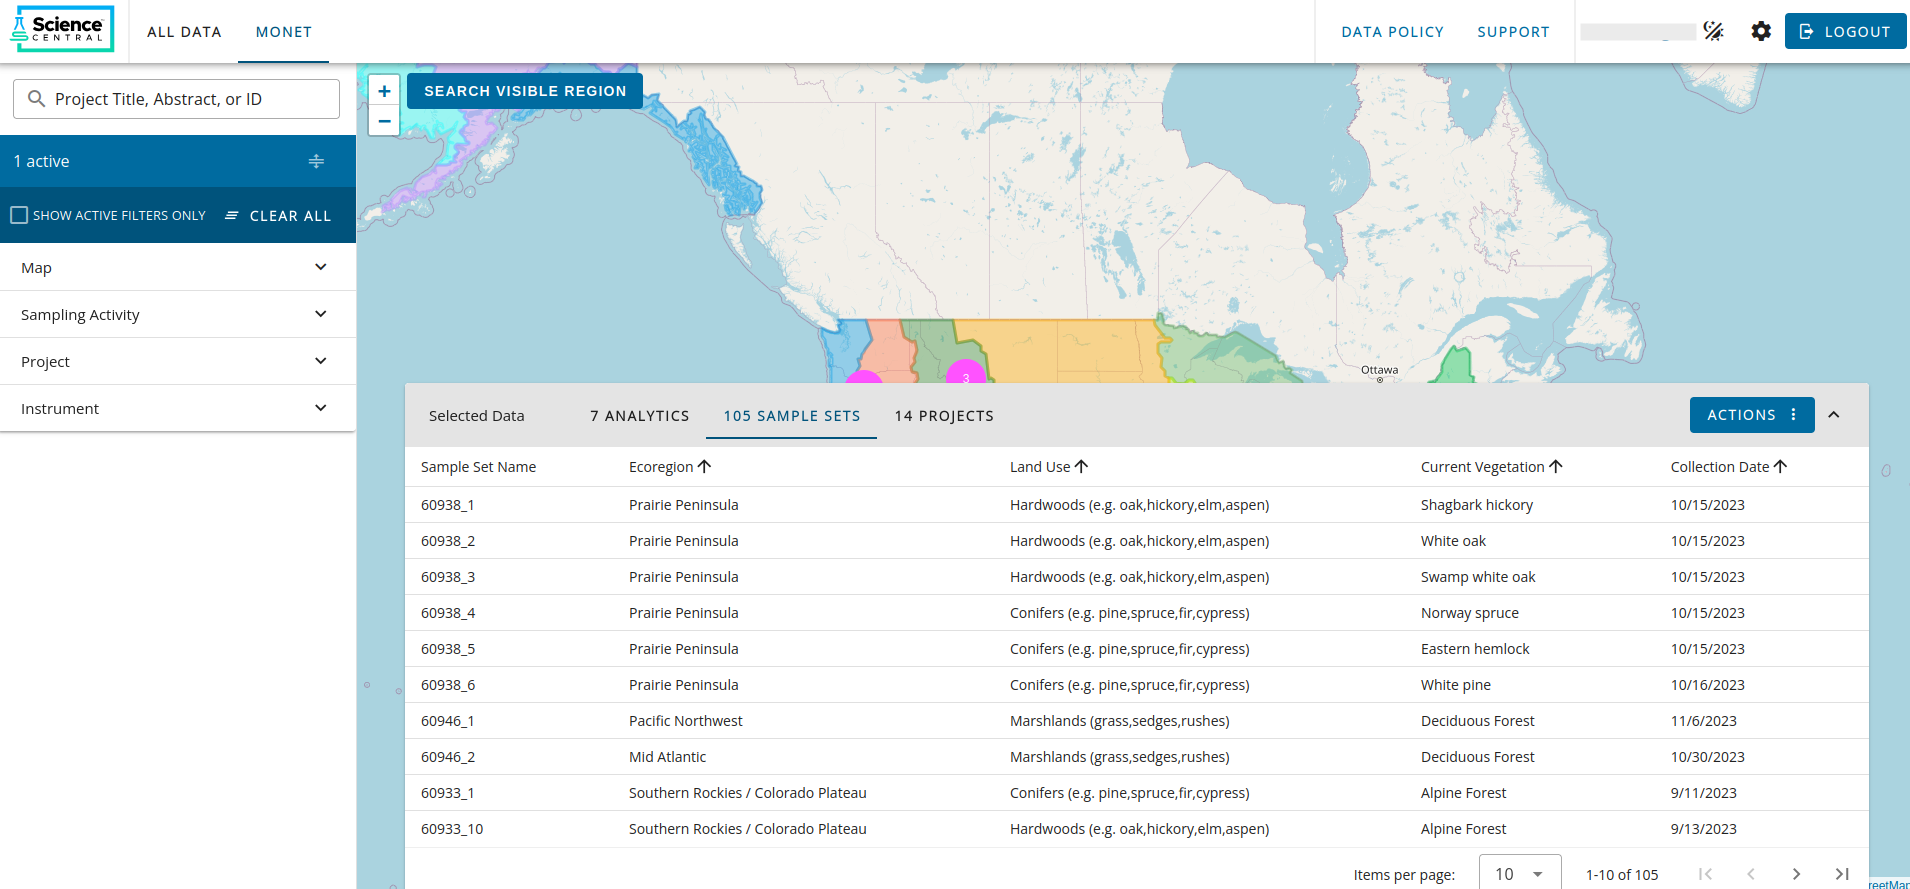
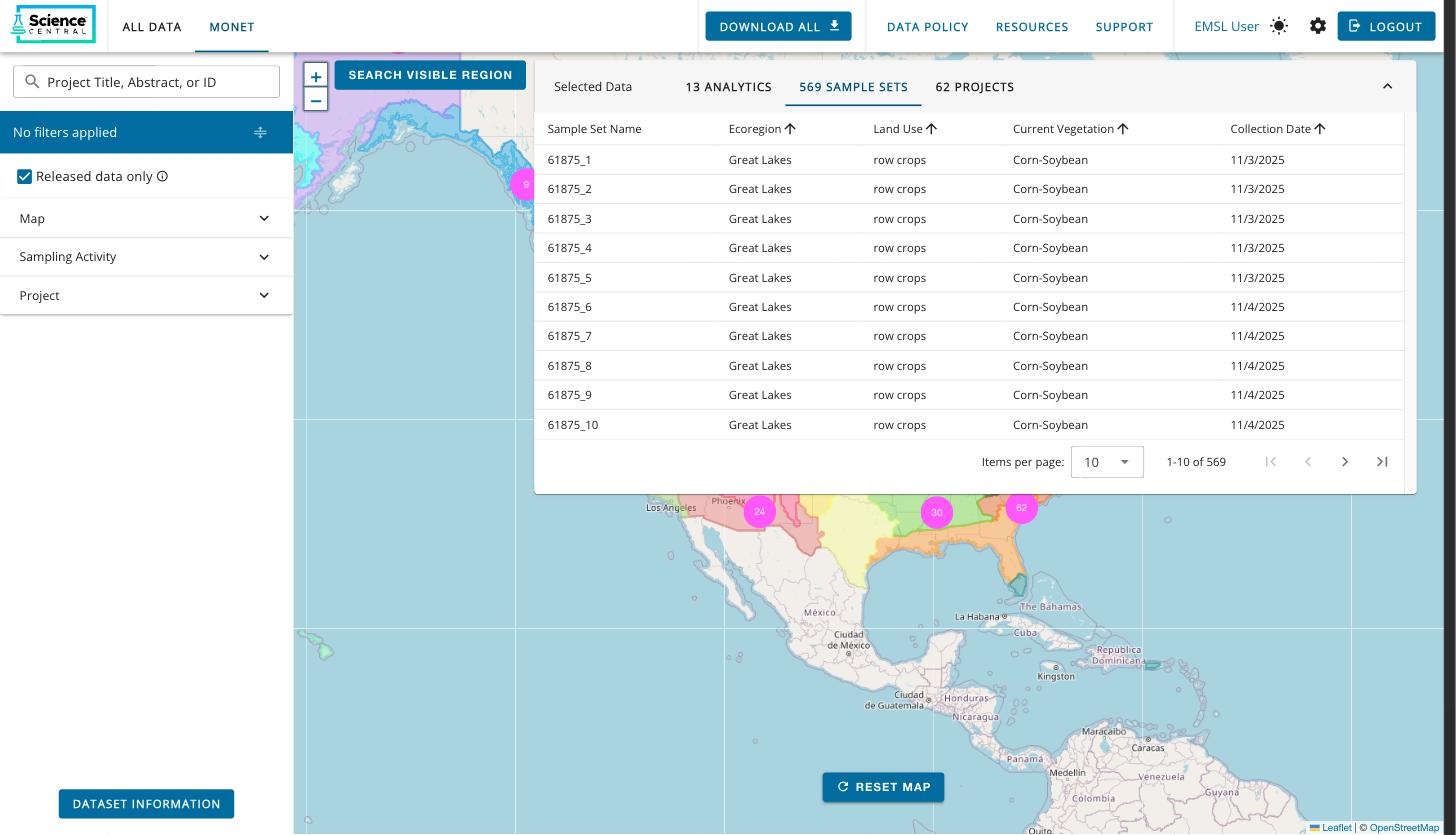
Refresh MONet screenshots and text for Data Portal 2.12.0
Retake the MONet search bar, main view, analytics panel and download
modal screenshots from the live portal; the old ones (2024) showed the
Actions menu, analysis switches and seven analytics.

Update the text for 2.12.0: the download modal's site-level
environmental metadata option, no download size in the modal, the
1000 Soils package no longer marked temporary, and no DOI in the
dataset details now that the portal runs on MADS.

Refs SCICENT-1575

diff --git a/docs/applications/data_portal.md b/docs/applications/data_portal.md
@@ -24,7 +24,7 @@ After the selections are made by user, search results appear as a scrollable lis
 
 Users can click on the "Select datasets" button to open up the dataset selector. From here, users can check the datasets they want, and each checked dataset is added to the cart automatically (enabling downloads of data across multiple projects).
 
-Users can also see more details such as the files, metadata, and DOI of an individual upload by clicking the "View files" button. Each dataset has its own URL that can be shared between users. Users can add files to cart and/or download from here as well.
+Users can also see more details such as the files and metadata of an individual upload by clicking the "View files" button. Each dataset has its own URL that can be shared between users. Users can add files to cart and/or download from here as well.
 
 ![doi_click](../_static/images/data_portal/doi_click.png)
 
@@ -108,7 +108,7 @@ Users can toggle the filter using the checkbox next to each analysis on the left
 
 ![monet_download](../_static/images/data_portal/monet_download.png)
 
-The download modal shows a summary of the download and the current filters, including the number of active filters, the number of files, and the total download size. Checking "Include Full Replicate Data (L1 data)" returns replicate-level values instead of averaged values, where they are available. Clicking download on the modal initiates a download of a zip file containing the requested data. The button shows "Processing" while the zip file is prepared in the background; download sizes vary, so this may take a while. If the download fails, the modal shows an error and the button changes to "Try Again". Contact dataportal.support@pnnl.gov if the error persists.
+The download modal shows a summary of the download and the current filters, including the number of active filters and the number of files. "Include site-level environmental metadata" is checked by default and adds Site_Level_Metadata.csv, with soil survey, climate, topography, land cover and NDVI context for each core section in the selection from six public providers (SSURGO, Daymet, gridMET, USGS 3DEP, NLCD, HLS Landsat). These values are modelled or remotely sensed for the area around each site; they are not measurements of the sample. A README documenting every column, its source, and its citation is included. Checking "Include Full Replicate Data (L1 data)" returns replicate-level values instead of averaged values, where they are available. Clicking download on the modal initiates a download of a zip file containing the requested data. The button shows "Processing" while the zip file is prepared in the background; download sizes vary, so this may take a while. If the download fails, the modal shows an error and the button changes to "Try Again". Contact dataportal.support@pnnl.gov if the error persists.
 
 #### MONet Resources
 
@@ -117,7 +117,7 @@ On the MONet tab, the "Resources" button in the top app bar opens "MONet Data Pr
 - **MONet Lab Protocols**: the protocols followed to standardize sampling (https://raw.githubusercontent.com/EMSL-MONet/MONet-Protocols-/refs/heads/main/MONet%20Lab%20Protocols.docx)
 - **Column Description Guide**: help understanding the columns in downloaded MONet data (https://raw.githubusercontent.com/EMSL-MONet/MONet-Protocols-/refs/heads/main/Column_Descriptions.xlsx)
 - **EMSL MONet repository**: more information about MONet protocols and files (https://github.com/EMSL-MONet/MONet-Protocols-/)
-- **MONet 1000 Soils Data Package**: 1000 Soils data, available temporarily as a package until it is added to the searchable sample sets (https://sc-data.emsl.pnnl.gov/packages?file=1000soils.zip)
+- **MONet 1000 Soils Data Package** (https://sc-data.emsl.pnnl.gov/packages?file=1000soils.zip)
 - **MONet Biogeochemistry Data Release Jan 2026** (https://sc-data.emsl.pnnl.gov/packages?file=MONet_biogeochemistry_XCT_January2026.zip)
 - **MONet Biogeochemistry Data Release Apr 2026** (https://sc-data.emsl.pnnl.gov/packages?file=MONet_biogeochemistry_XCT_April2026.zip)
 - **MONet Biogeochemistry Data Release Jul 2026** (https://sc-data.emsl.pnnl.gov/packages?file=MONet_biogeochemistry_XCT_ICR_July2026.zip)
